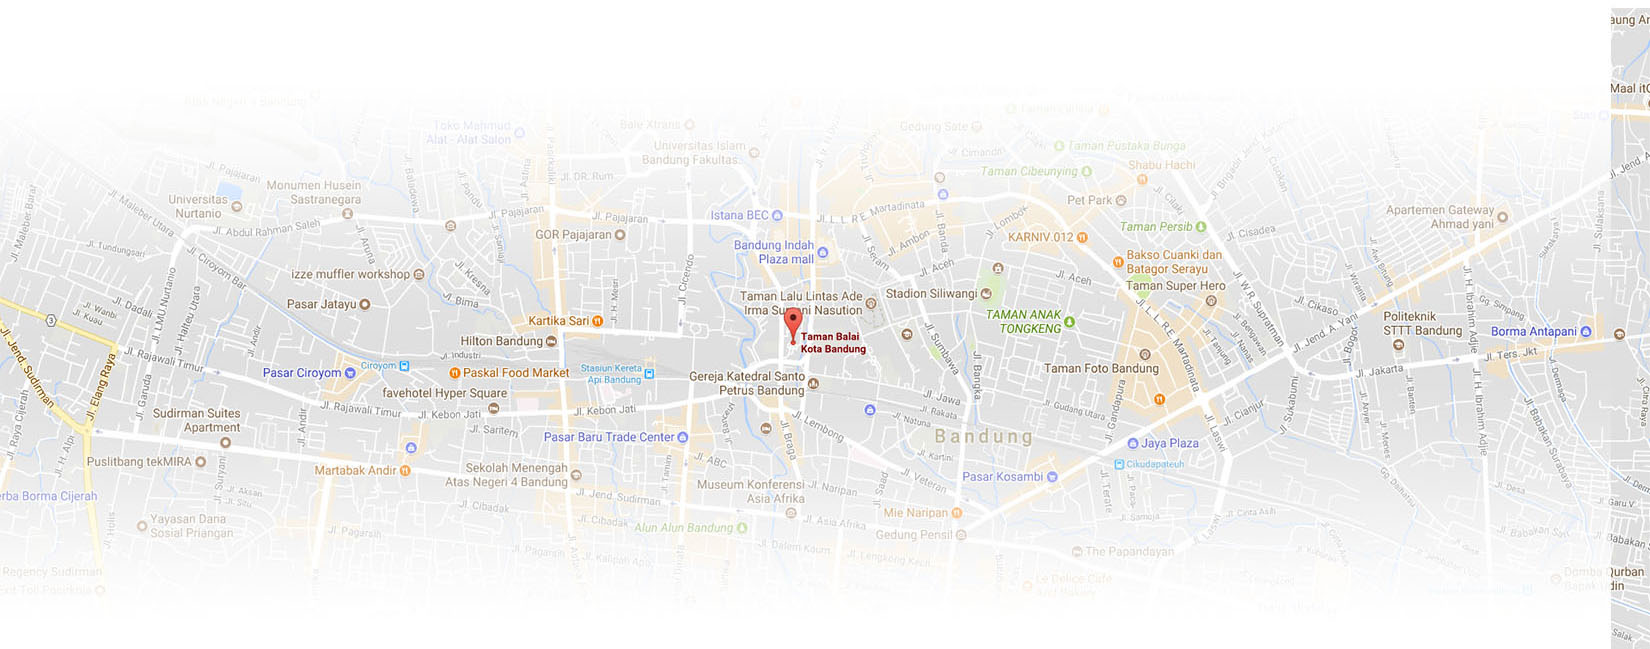
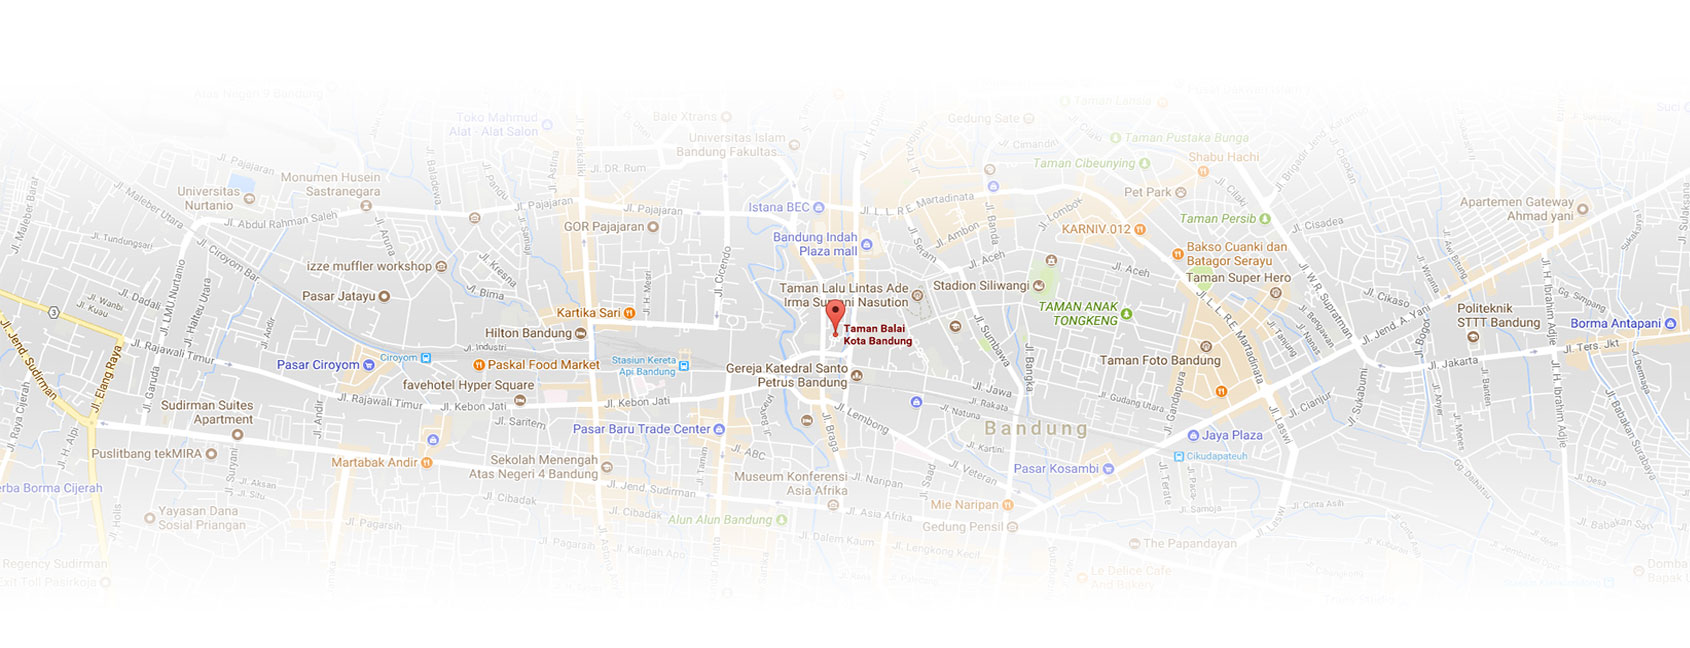
tugas sesi3

diff --git a/sesi3/single.html b/sesi3/single.html
@@ -1,0 +1,51 @@
+<!DOCTYPE html>
+<html>
+  <head>
+    <meta charset="utf-8">
+    <title>Single</title>
+    <link rel="stylesheet" href="https://fonts.googleapis.com/css?family=Caveat|Playfair+Display|Roboto">
+    <link rel="stylesheet" href="http://code.ionicframework.com/ionicons/2.0.1/css/ionicons.min.css">
+    <link rel="stylesheet" href="style.css">
+  </head>
+  <body>
+    <div class="site-content">
+      <div class="hero-single">
+        <h1>
+          <span class="subtitle">Taman</span>
+          <span class="title">Balai Kota</span>
+        </h1>
+        <p>Taman ini sudah sejak lama berdiri, dan sering digunakan untuk berolahraga seperti bersepeda. Namun dengan sedikit renovasi dan ditambahnya fasilitas, taman ini semakin ramai dikunjungi, entah untuk bersantai, berolahraga maupun bermain. Prisma gembok cinta, salah satu fasilitas yang disediakan untuk menggembok cinta dengan sebuah gembok, cocok bagi pasangan yang sedang jatuh cinta. Jika belum punya pasangan jangan berkecil hati, Anda juga bisa datang ke taman ini untuk sekedar menjelajah dunia maya dengan fasilitas Wi-fi gratis yang disediakan ataupun berfoto.</p>
+      </div>
+      <div class="slider">
+        <div class="gallery-slider">
+          <div class="g">
+            <button type="submit"><i class="ion-arrow-left-c"></i></button>
+          </div>
+          <div class="g">
+            <img src="images/slide-1.jpg" alt="slide 1">
+          </div>
+          <div class="g">
+            <img src="images/slide-2.jpg" alt="slide 2">
+          </div>
+          <div class="g">
+            <img src="images/slide-3.jpg" alt="slide 3">
+          </div>
+          <div class="g">
+            <button type="submit"><i class="ion-arrow-right-c"></i></button>
+          </div>
+        </div>
+      </div>
+      <div class="gmap">
+        <div class="for-button">
+          <a href="index.html">
+            <button class="button-1" type="submit"><i class="ion-ios-home-outline"></i><span class="btn-text"> Kembali ke Halaman Utama</span></button>
+          </a>
+          <button class="button-2" type="submit"><i class="ion-compass"></i> Dapatkan Petunjuk Arah</button>
+        </div>
+      </div>
+    </div>
+    <div class="footer">
+      <p>&copy Copyright By Talenbandung.id</p>
+    </div>
+  </body>
+</html>

diff --git a/sesi3/style.css b/sesi3/style.css
@@ -73,7 +73,7 @@ body{
 
 .hero form button{
     position         : absolute;
-    top              : 5px;
+    top              : 10px;
     right            : 20px;
     font-size        : 36px;
     color            : #e3a6a9;
@@ -157,3 +157,103 @@ body{
 	.grid-item{ width: 100% }
 }
     
+.hero-single{
+  height: 700px;
+  background-image: url("image/bg-single.jpg");
+  background-position: center;
+  background-size: cover;
+  background-repeat: no-repeat;
+  text-align: center;
+  position: relative;
+  margin-bottom: 80px;
+}
+
+.hero-single h1{
+  margin: 0;
+}
+
+.hero-single .subtitle{
+  margin-top: 180px;
+  display: inline-block;
+}
+
+.hero-single .title{
+  display: block;
+}
+
+.hero-single p{
+  width: 635px;
+  margin: 100px auto;
+  line-height: 30px;
+}
+
+.slider{
+  text-align: center;
+  width: 90%;
+  display: flex;
+  margin: 0 auto;
+  /*padding: 0;*/
+  justify-content: center;
+}
+
+
+.g img{
+  margin: 8px;
+}
+
+.g button{
+  border: none;
+  background-color: white;
+  height: 240px;
+  width: 80px;
+}
+.g i{
+  font-size: 50px;
+  font-weight: 1px;
+}
+
+.g{
+  float: left;
+}
+
+.gmap{
+  background-image: url("image/map.jpg");
+  background-position: center;
+  background-size: cover;
+  background-repeat: no-repeat;
+  height: 600px;
+  text-align: center;
+}
+
+.for-button{
+  margin-top: 465px;
+  display: inline-block;
+}
+
+
+.for-button button{
+  height: 55px;
+  width: 300px;
+  padding-bottom: 13px;
+  border-radius: 30px;
+  border: none;
+  margin: 0 8px;
+  color: white;
+  font-size: 18px;
+}
+
+.for-button .button-1{
+  background-color: #22B8CF;
+}
+
+.for-button .button-2{
+  background-color: #329AF0;
+}
+
+.for-button i{
+  font-size: 30px;
+  margin-right: 12px;
+}
+
+.btn-text {
+margin-bottom: 5px

diff --git a/sesi3/index.html b/sesi3/index.html
@@ -152,12 +152,12 @@
             
             </div>          
         </main>
-        <div class="footer">
-            <p>&copy; copyright 2017 by talentbandung.id
-            </p>
-        
             
         </div>
     </div>
+    <footer class="footer">
+        <p>&copy; copyright 2017 by talentbandung.id
+        </p>
+    </footer>
 </body>
 </html>
